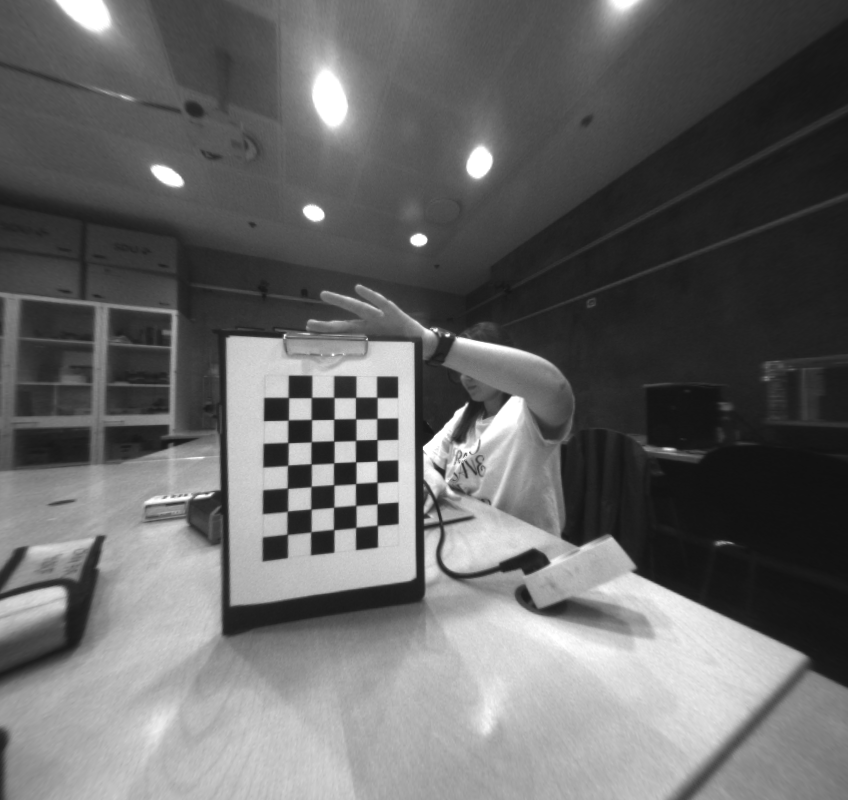
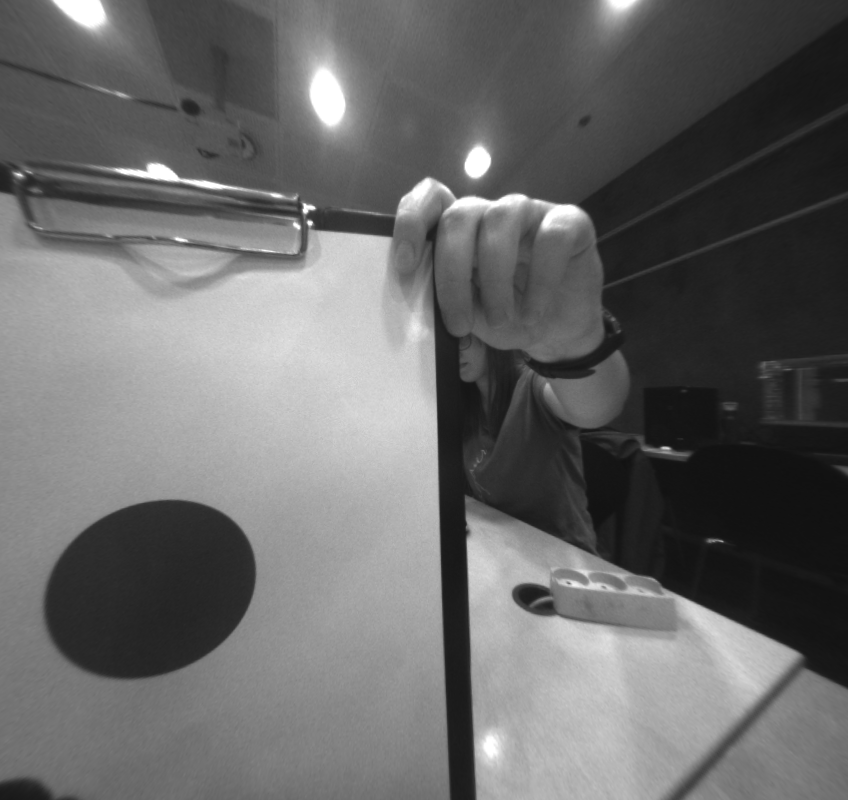
testing pose estimation

diff --git a/catkin_ws/src/morf_ik/src/calibration.cpp b/catkin_ws/src/morf_ik/src/calibration.cpp
@@ -92,7 +92,7 @@ int main(int argc, char **argv)
     cv::Size newImageSize;
 
     cv::Mat undistortedL, undistortedR;
-    imgL = cv::imread("/home/leonor/tese/IK_MORF/catkin_ws/devel/lib/morf_ik/calib_imgs/L1.png");
+    imgL = cv::imread("/home/leonor/tese/IK_MORF/catkin_ws/devel/lib/morf_ik/calib_imgs/imageL.png");
     imgR = cv::imread("/home/leonor/tese/IK_MORF/catkin_ws/devel/lib/morf_ik/calib_imgs/R1.png");
 
     cv::fisheye::stereoRectify(cameraMatrixL, distCoeffsL, cameraMatrixR, distCoeffsR, imgL.size(), R, T, RL, RR, PL, PR, Q, 0);

diff --git a/catkin_ws/src/morf_ik/include/controller_real.cpp b/catkin_ws/src/morf_ik/include/controller_real.cpp
@@ -398,7 +398,7 @@ void images::blob()
     params.filterByArea = true;
     params.minArea = 1000;
     params.filterByCircularity = true;
-    params.minCircularity = 0.9;
+    params.minCircularity = 0.7;
 
 
 
